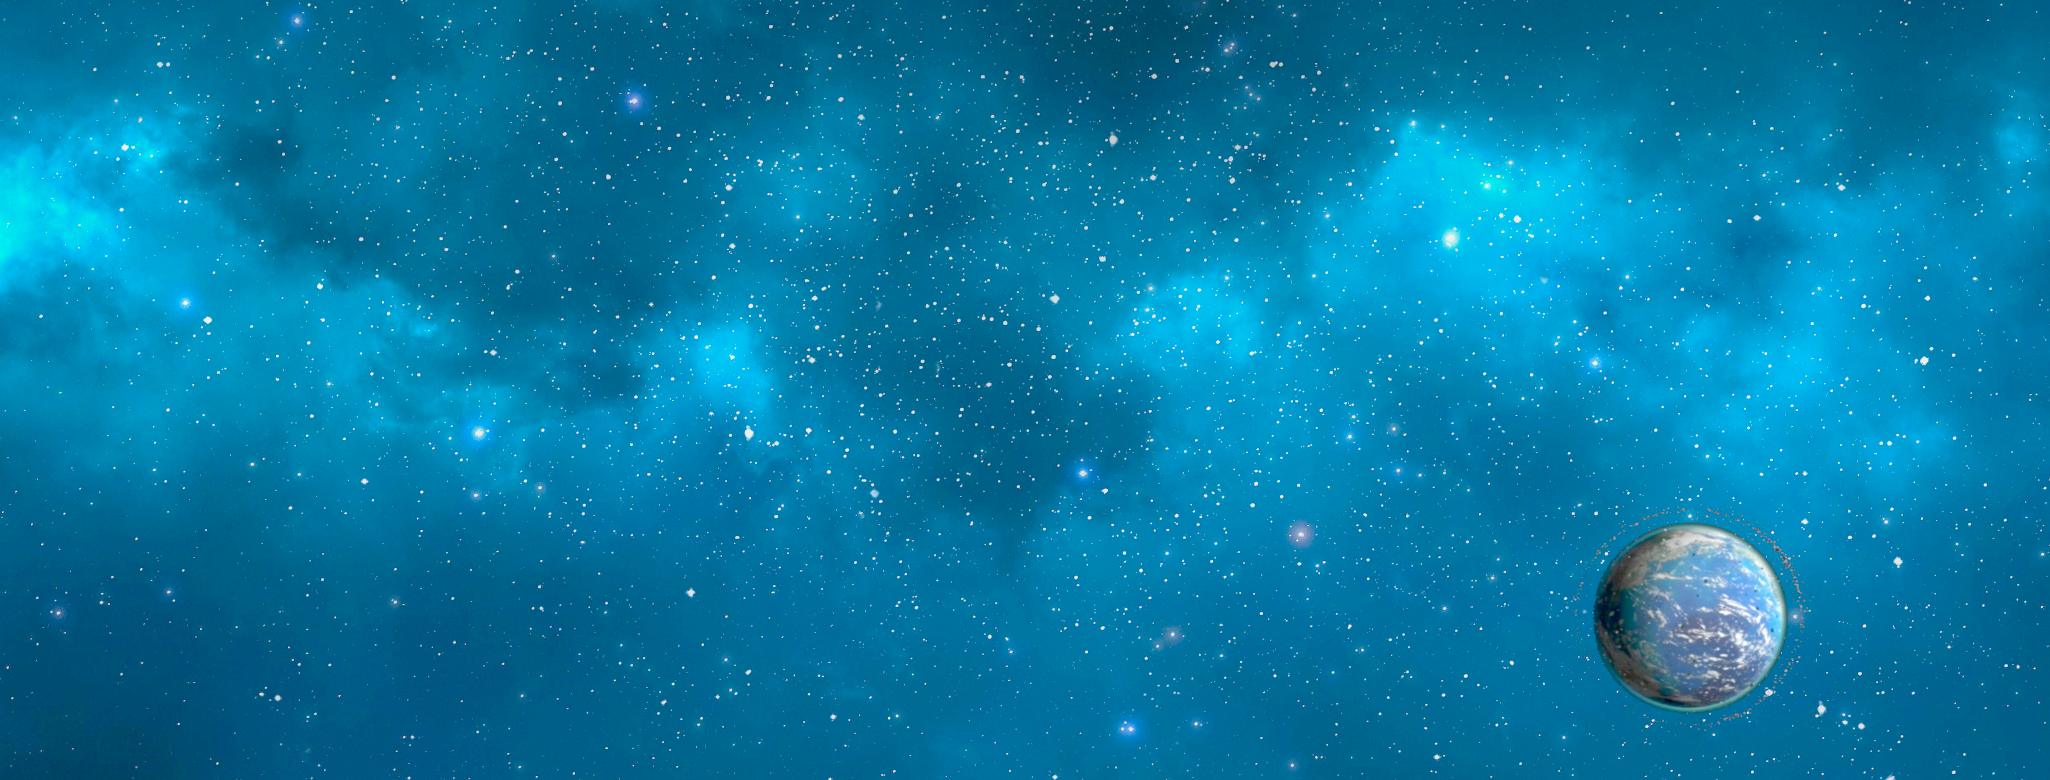
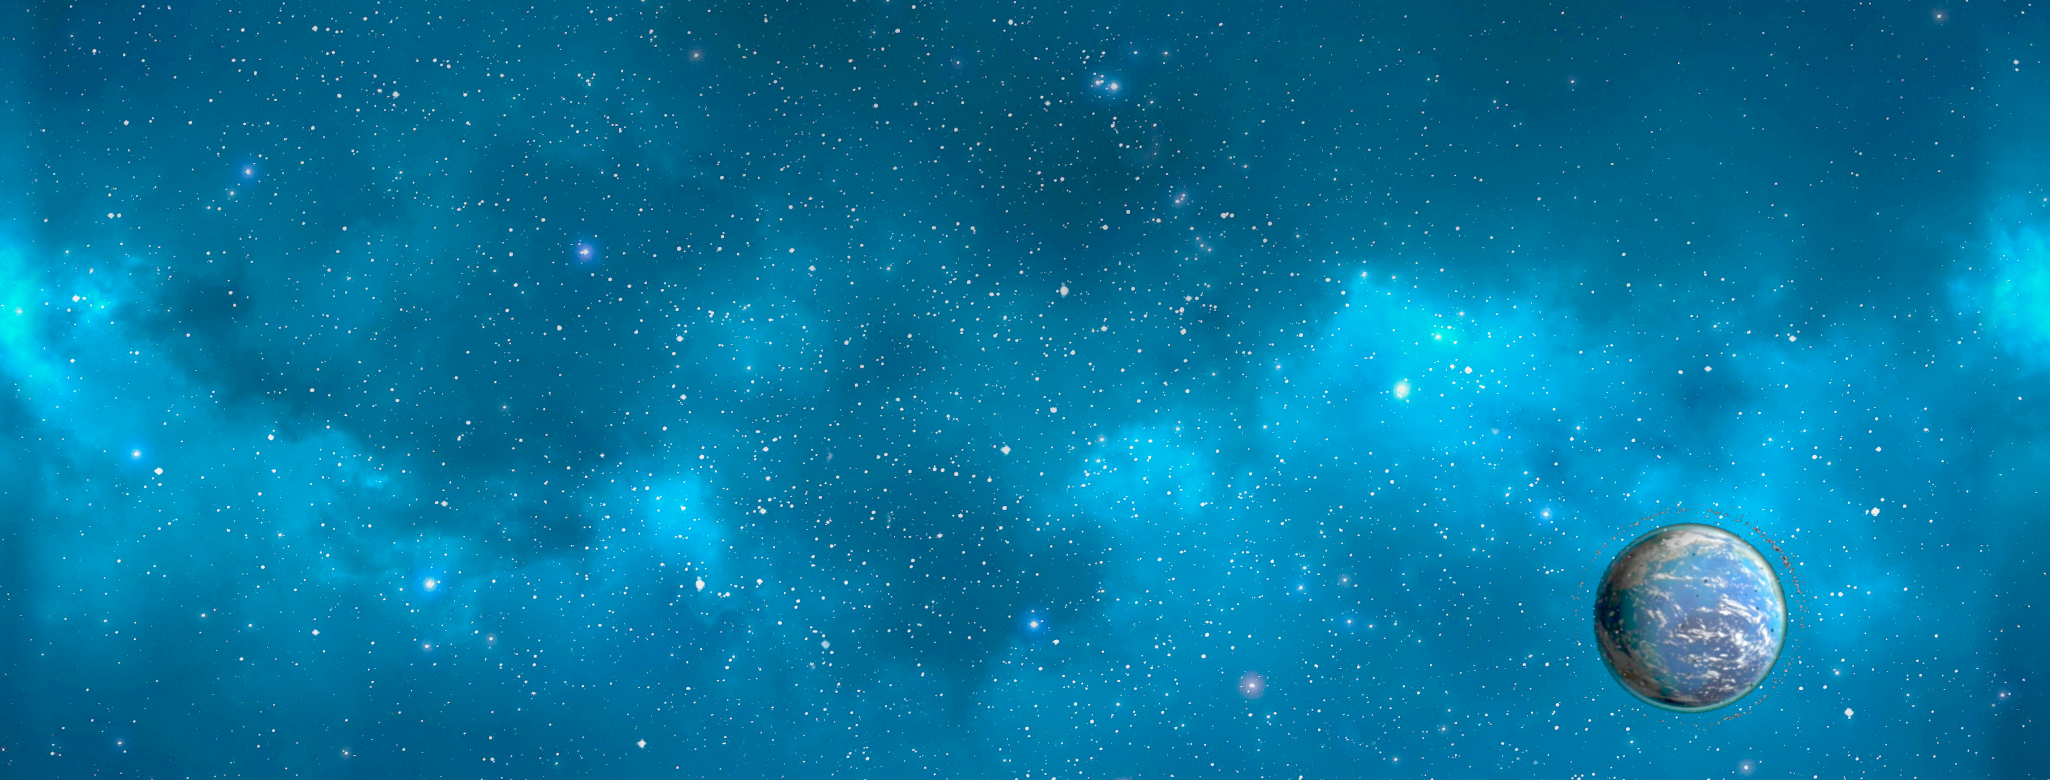
Añadido al grupo padre
El tiempo y el fondo trabajan al mismo tiempo, y se optimizo el refresco de la imagen

diff --git a/src/application/StageFondo.java b/src/application/StageFondo.java
@@ -2,75 +2,46 @@ package application;
 
 import java.io.File;
 
-import javafx.animation.AnimationTimer;
-import javafx.animation.Timeline;
-import javafx.animation.TranslateTransition;
-import javafx.application.Application;
 import javafx.scene.Group;
-import javafx.scene.Scene;
 import javafx.scene.image.ImageView;
 import javafx.stage.Stage;
-import javafx.util.Duration;
 
-public class StageFondo extends Application {
+public class StageFondo{
 	//parametros de la ventana
 		int WITH = Pref.getWITH();
 		int HEIGHT = Pref.getHEIGHT();
 		File file;
 		String uri;
-		
-	ImageView background, background1,background2;
-	private TranslateTransition translate;
-
-	@Override
-	public void start(Stage primaryStage) throws Exception {
+		private int posb0=0,posb1=2048; //interesante :o
+		private int vel=3;
+		ImageView background, background1,background2;
+	public StageFondo() {}
+	public StageFondo(int velExt,File fileExt) {
+		vel=velExt;
+		file = fileExt;
+	}
+	
+	public Group start(Stage primaryStage) throws Exception {
+		//obtenemos el uri de el file, y lo ponemos en pantalla
 		file = new File("src/img/background.png");
 		uri = file.toURI().toString();
 		background=new ImageView(uri);
-		background.setX(0);
 		background1=new ImageView(uri);
-		//background1.setX(2048);
-		timer();
-		Group root = new Group(background,background1);
-		Scene scene = new Scene(root,WITH,HEIGHT);
-		primaryStage.setScene(scene);
-		primaryStage.show();
-	}
-	public static void main(String[] args) {
-		launch(args);
-	}
-	void move() {
-		background.setTranslateX(2);
-		background.setTranslateY(2);
 		
-		translate = new TranslateTransition(Duration.seconds(10),background);
-		translate.setFromX(-1000);
-		translate.setToX(1280);
-        translate.setCycleCount(Timeline.INDEFINITE);
-        translate.setAutoReverse(false);
-        translate.play();
+		background.setX(0);
+		Group root = new Group(background,background1);
+		return root;
 	}
-    private int posb0=0,posb1=2048,vel=3; //interesante :o
 	
-	void timer() {
-		//reloj
-	    AnimationTimer timer = new AnimationTimer() {
-			@Override
-            public void handle(long l) {
-            	posb0-=vel;
-            	posb1-=vel;
-            	background.setTranslateX(posb0);
-            	background1.setTranslateX(posb1);
-            	//System.out.println(background.getTranslateX()+" -> "+posb0 + " - "+background1.getTranslateX()+" -> "+posb1);
-            	if (background.getTranslateX() < -2036) {
-            		posb0=2046;
-				}
-            	if (background1.getTranslateX() < -2036) {
-            		posb1=2046;
-				}
-            }
-        };
-        timer.start();
+	//este es un metodo que actualiza el fondo al compaz de los fps
+	public void moveBackground() {
+    	posb0-=vel;
+    	posb1-=vel;
+    	background.setTranslateX(posb0);
+    	background1.setTranslateX(posb1);
+    	//System.out.println(background.getTranslateX()+" -> "+posb0 + " - "+background1.getTranslateX()+" -> "+posb1);
+    	if (background.getTranslateX() < -2036) {posb0=2046;}
+    	if (background1.getTranslateX() < -2036) {posb1=2046;}
 	}
 
 }
